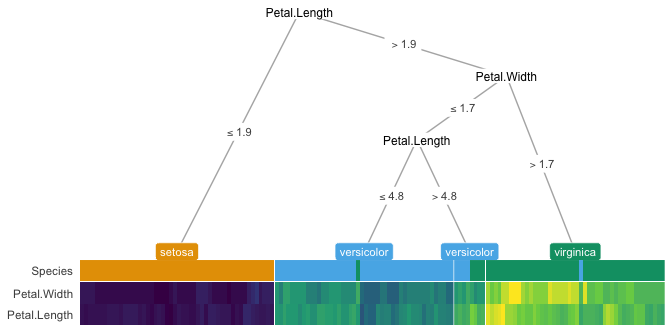
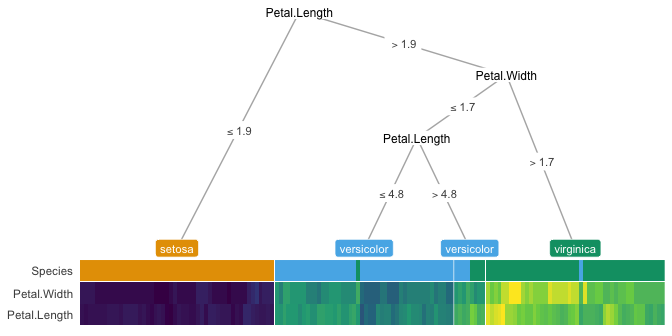
updated knitted readme

diff --git a/README.md b/README.md
@@ -25,7 +25,7 @@ Classification of different types of iris plants.
 ``` r
 library(treeheatr)
 
-grid.draw(heat_tree(iris, class_lab = 'Species'))
+grid.draw(heat_tree(iris, target_lab = 'Species'))
 ```
 
 ![](man/figures/unnamed-chunk-3-1.png)<!-- -->
@@ -35,7 +35,7 @@ grid.draw(heat_tree(iris, class_lab = 'Species'))
 Classification of different cultivars of wine.
 
 ``` r
-grid.draw(heat_tree(wine, class_lab = 'Type', class_lab_disp = 'Cultivar'))
+grid.draw(heat_tree(wine, target_lab = 'Type', target_lab_disp = 'Cultivar'))
 ```
 
 ![](man/figures/unnamed-chunk-4-1.png)<!-- -->
